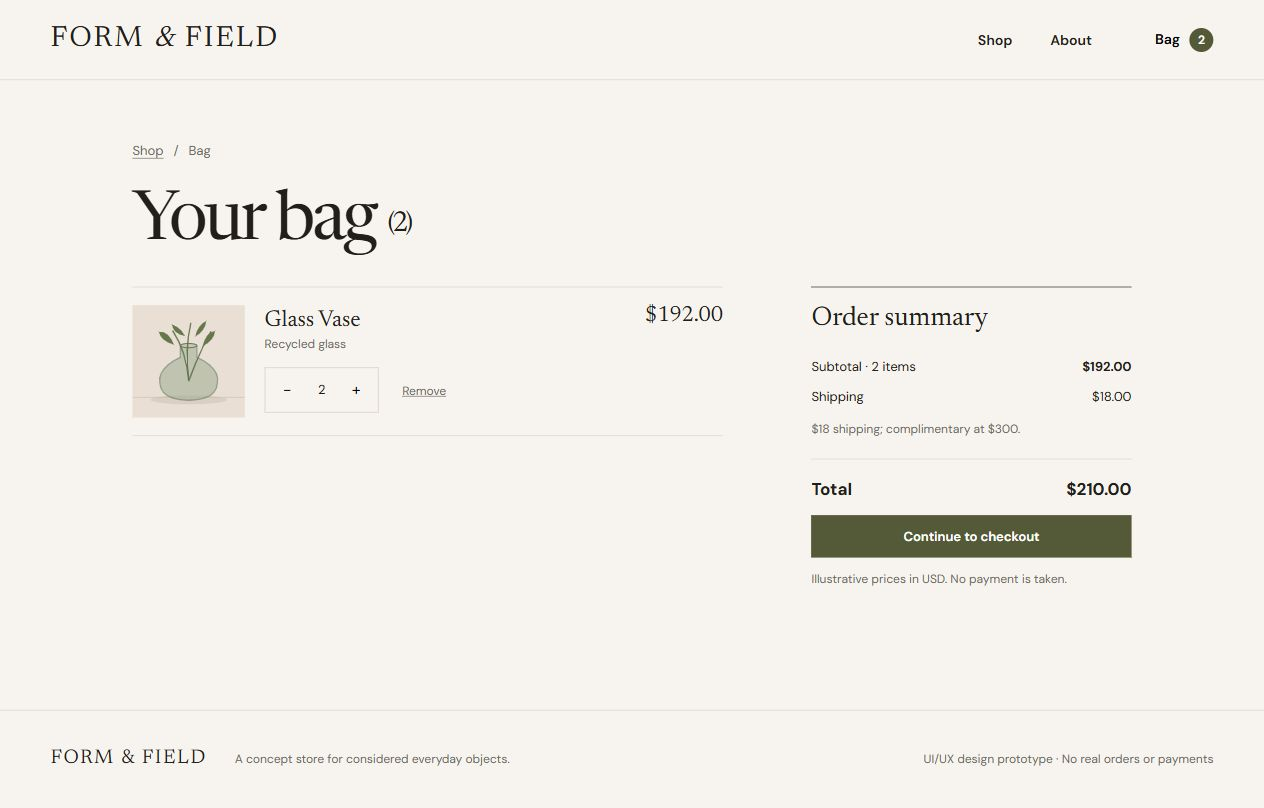
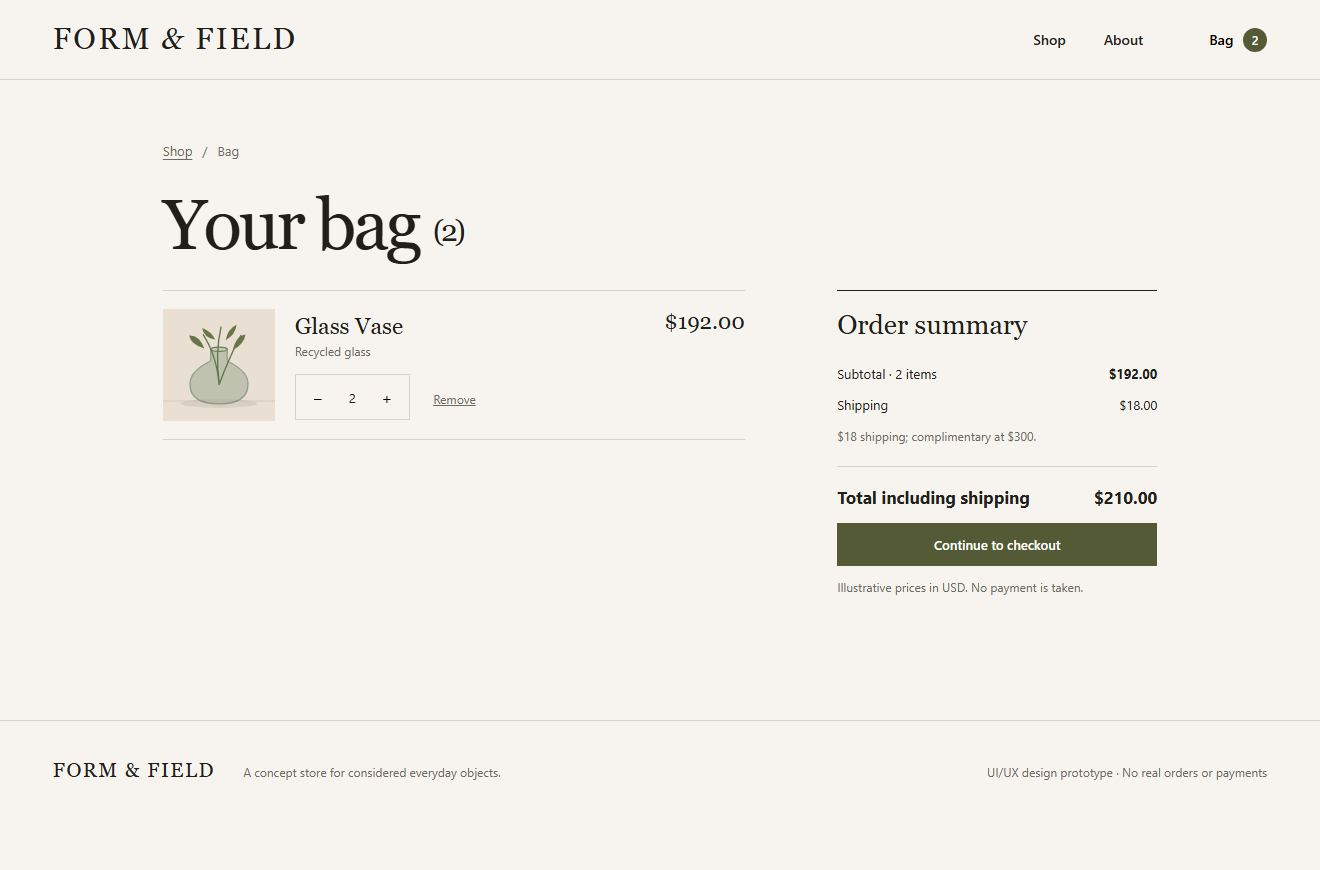
Refresh submission evidence for the revised prototype

diff --git a/task-05-ecommerce-app/EVALUATION.md b/task-05-ecommerce-app/EVALUATION.md
@@ -62,3 +62,14 @@ All are actual browser captures using invented sample information. They are not 
 Conduct the sessions in USABILITY-TEST.md, record actual observations in participant-results.csv, revise observed problems and retest affected tasks. Also untested: screen readers, physical phones, other browser engines, storage-disabled behavior and conflicting simultaneous bag edits. The bag-storage fallback is implemented but not claimed as browser-tested.
 
 A client can review the working prototype now. They should not be told that all workflow requirements are finished or that the design is error-free.
+
+## Submission evidence refresh · 20 November 2026
+
+The checkout fills only empty fields with fictional details, keeps existing entries, and explains that finishing clears the bag. The bag labels the total as including shipping. Participant testing remains outstanding.
+
+The screenshots below were recaptured from the revised prototype. Earlier evidence files are historical.
+
+- [05-bag.jpg](screenshots/05-bag.jpg)
+- [05-checkout-mobile.jpg](screenshots/05-checkout-mobile.jpg)
+- [05-checkout.jpg](screenshots/05-checkout.jpg)
+- [05-validation.jpg](screenshots/05-validation.jpg)
